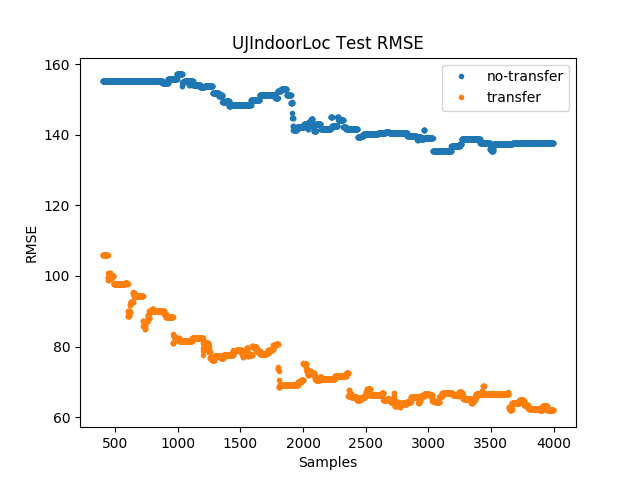
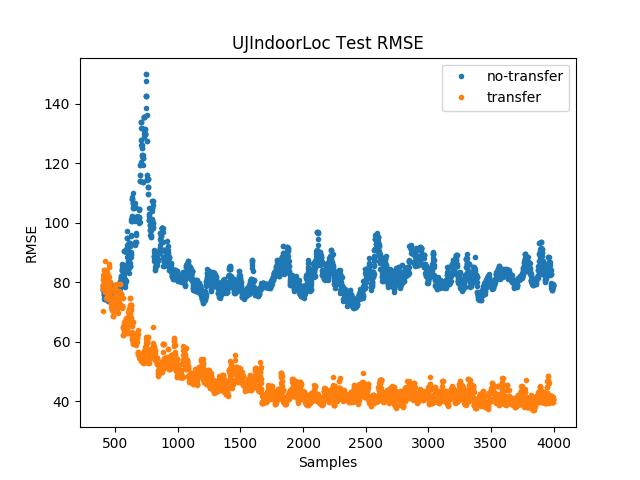
error in metre added for wifi data

diff --git a/datasets/UJIndoorLoc/preprocess_2.py b/datasets/UJIndoorLoc/preprocess_2.py
@@ -55,21 +55,20 @@ for file, data in datadict.items():
         os.mkdir(file)
     building = {}
     for index in range(data.shape[0]):
-                                                                                                                                                                                                                                                                                                                                                                                                                                                                                                                                                                                                                                                                                                                                                                                                                                                                                                                                                                                                                                                                                                                                                                                                                                                                                                                                                                                                                                                                                                                                                                                                                                                                                                                                                                                                                                                                                                                                                                                                                                                            building_id = int(data[index, -1])
-    #     try:
-    #         building[building_id].append(data[index, :])
-    #     except Exception as e:
-    #         building[building_id] = [data[index, :]]
-    # for building_id, data in building.items():
-    #     data = np.array(data)
-    X = np.c_[data[:, :-4], data[:, -2:]]
-    y = data[:, -4:-2]
-    X_train, X_test, y_train, y_test = train_test_split(X, y, test_size=sizedict[file], random_state=int(time.time()))
-    traindata = np.c_[X_train, y_train]
-    testdata = np.c_[X_test, y_test]
-    np.savetxt(file+'/train.csv', traindata, delimiter=',')
-    np.savetxt(file+'/test.csv', testdata, delimiter=',')
-    # np.savetxt(file+'/'+str(building_id)+'train.csv', traindata, delimiter=',')
-    # np.savetxt(file+'/'+str(building_id)+'test.csv', testdata, delimiter=',')
-
-    print traindata.shape, testdata.shape
+        building_id=int(data[index, -1])
+        try:
+            building[building_id].append(data[index, :])
+        except Exception as e:
+            building[building_id] = [data[index, :]]
+    for building_id, data in building.items():
+        data = np.array(data)
+        X = np.c_[data[:, :-4]]
+        y = data[:, -4:]
+        X_train, X_test, y_train, y_test = train_test_split(X, y, test_size=sizedict[file], random_state=int(time.time()))
+        traindata = np.c_[X_train, y_train]
+        testdata = np.c_[X_test, y_test]
+        # np.savetxt(file+'/train.csv', traindata, delimiter=',')
+        # np.savetxt(file+'/test.csv', testdata, delimiter=',')
+        np.savetxt(file+'/'+str(building_id)+'train.csv', traindata, delimiter=',')
+        np.savetxt(file+'/'+str(building_id)+'test.csv', testdata, delimiter=',')
+        print traindata.shape, testdata.shape

diff --git a/transfer-learning/mcmc-transfer-learning/mcmc_transfer_regression.py b/transfer-learning/mcmc-transfer-learning/mcmc_transfer_regression.py
@@ -218,22 +218,17 @@ class TransferLearningMCMC:
 
     @staticmethod
     def distance(fx, y):
-        dist = np.zeros((fx.shape[0],))
-        for i in range(fx.shape[1]):
-            dist += (fx[:, i] - y[:, i])**2
-        dist = np.sqrt(dist).mean()
+        dist = np.sqrt(np.sum(np.square(fx - y), axis=1)).mean()
         return dist
-
-
 
     def likelihood_func(self, neuralnet, data, w, tausq):
         y = data[:, self.topology[0]:].copy()
         fx = neuralnet.evaluate_proposal(data, w)
-        #fx = Network.denormalize(fx, [0,1], maxa=[-7299.786516730871000, 4865017.3646842018], mina=[-7695.9387549299299000, 4864745.7450159714], a=0, b=1)
-        #y = Network.denormalize(y, [0,1], maxa=[-7299.786516730871000, 4865017.3646842018], mina=[-7695.9387549299299000, 4864745.7450159714], a=0, b=1)
+        fx_m = Network.denormalize(fx.copy(), [0,1], maxa=[-7299.786516730871000, 4865017.3646842018], mina=[-7695.9387549299299000, 4864745.7450159714], a=0, b=1)
+        y_m = Network.denormalize(y.copy(), [0,1], maxa=[-7299.786516730871000, 4865017.3646842018], mina=[-7695.9387549299299000, 4864745.7450159714], a=0, b=1)
         # np.savetxt('y.txt', y, delimiter=',')
-        # rmse = self.distance(fx, y)
-        rmse = self.rmse(fx, y)
+        rmse = self.distance(fx_m, y_m)
+        # rmse = self.rmse(fx, y)
         loss = -0.5 * np.log(2 * math.pi * tausq) - 0.5 * np.square(y - fx) / tausq
         return [np.sum(loss), fx, rmse]
 
@@ -726,8 +721,8 @@ if __name__ == '__main__':
     try:
         # for transfer_prob in np.around(np.linspace(0.3, 1.2, 20), decimals=2):
         # stdscr.clear()
-        targettraindata = np.genfromtxt('../../datasets/UJIndoorLoc/targetData/2train.csv', delimiter=',')[:, :-2]
-        targettestdata = np.genfromtxt('../../datasets/UJIndoorLoc/targetData/2test.csv', delimiter=',')[:, :-2]
+        targettraindata = np.genfromtxt('../../datasets/UJIndoorLoc/targetData/0train.csv', delimiter=',')[:, :-2]
+        targettestdata = np.genfromtxt('../../datasets/UJIndoorLoc/targetData/0test.csv', delimiter=',')[:, :-2]
         # targettraindata = np.genfromtxt('../../datasets/synthetic_data/target_train.csv', delimiter=',')
         # targettestdata = np.genfromtxt('../../datasets/synthetic_data/target_test.csv', delimiter=',')
         # targettraindata = np.genfromtxt('../../datasets/Sarcos/target_train.csv', delimiter=',')
@@ -736,8 +731,8 @@ if __name__ == '__main__':
         traindata = []
         testdata = []
         for i in range(numSources):
-            traindata.append(np.genfromtxt('../../datasets/UJIndoorLoc/sourceData/2train.csv', delimiter=',')[:, :-2])
-            testdata.append(np.genfromtxt('../../datasets/UJIndoorLoc/targetData/2test.csv', delimiter=',')[:, :-2])
+            traindata.append(np.genfromtxt('../../datasets/UJIndoorLoc/sourceData/0train.csv', delimiter=',')[:, :-2])
+            testdata.append(np.genfromtxt('../../datasets/UJIndoorLoc/targetData/0test.csv', delimiter=',')[:, :-2])
             # traindata.append(np.genfromtxt('../../datasets/synthetic_data/source'+str(i+1)+'.csv', delimiter=','))
             # testdata.append(np.genfromtxt('../../datasets/synthetic_data/target_test.csv', delimiter=','))
             # traindata.append(np.genfromtxt('../../datasets/Sarcos/source.csv', delimiter=','))
@@ -747,7 +742,7 @@ if __name__ == '__main__':
         # stdscr.clear()
         random.seed(time.time())
 
-        numSamples = 4000# need to decide yourself
+        numSamples = 8000# need to decide yourself
 
 
         mcmc_task = TransferLearningMCMC(numSamples, numSources, traindata, testdata, targettraindata, targettestdata, topology,  directory='Wifi')  # declare class
